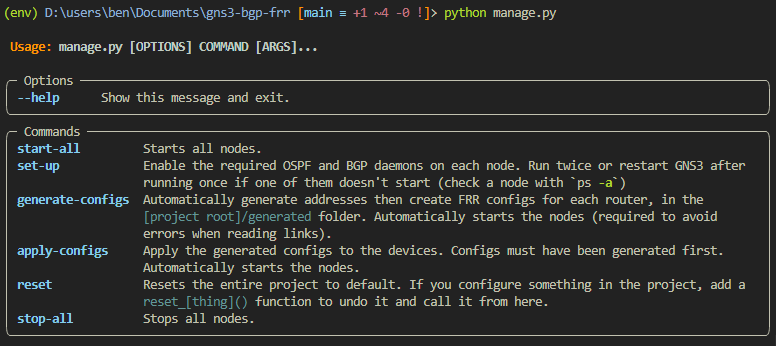
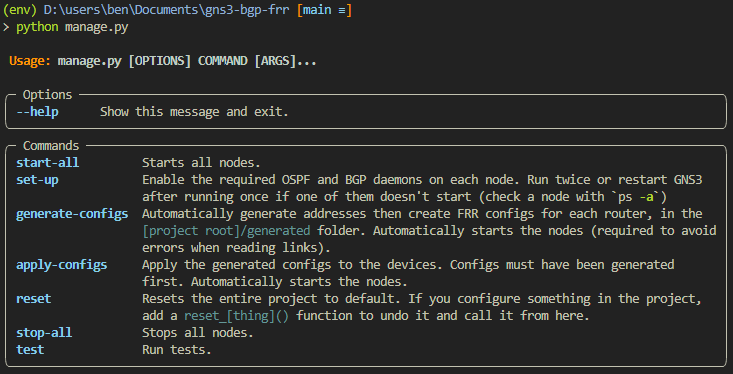
show tests in readme

diff --git a/README.md b/README.md
@@ -76,3 +76,9 @@ Usage: `python manage.py <global options> <command> <command options>`
 * Run `python manage.py apply-configs`
 * Watch the console - the config should be applied through `vtysh`'s config mode
 
+## Testing
+
+TODO: expand.
+
+* `python manage.py test`
+* `pytest --no-header --tb=line -rA`
